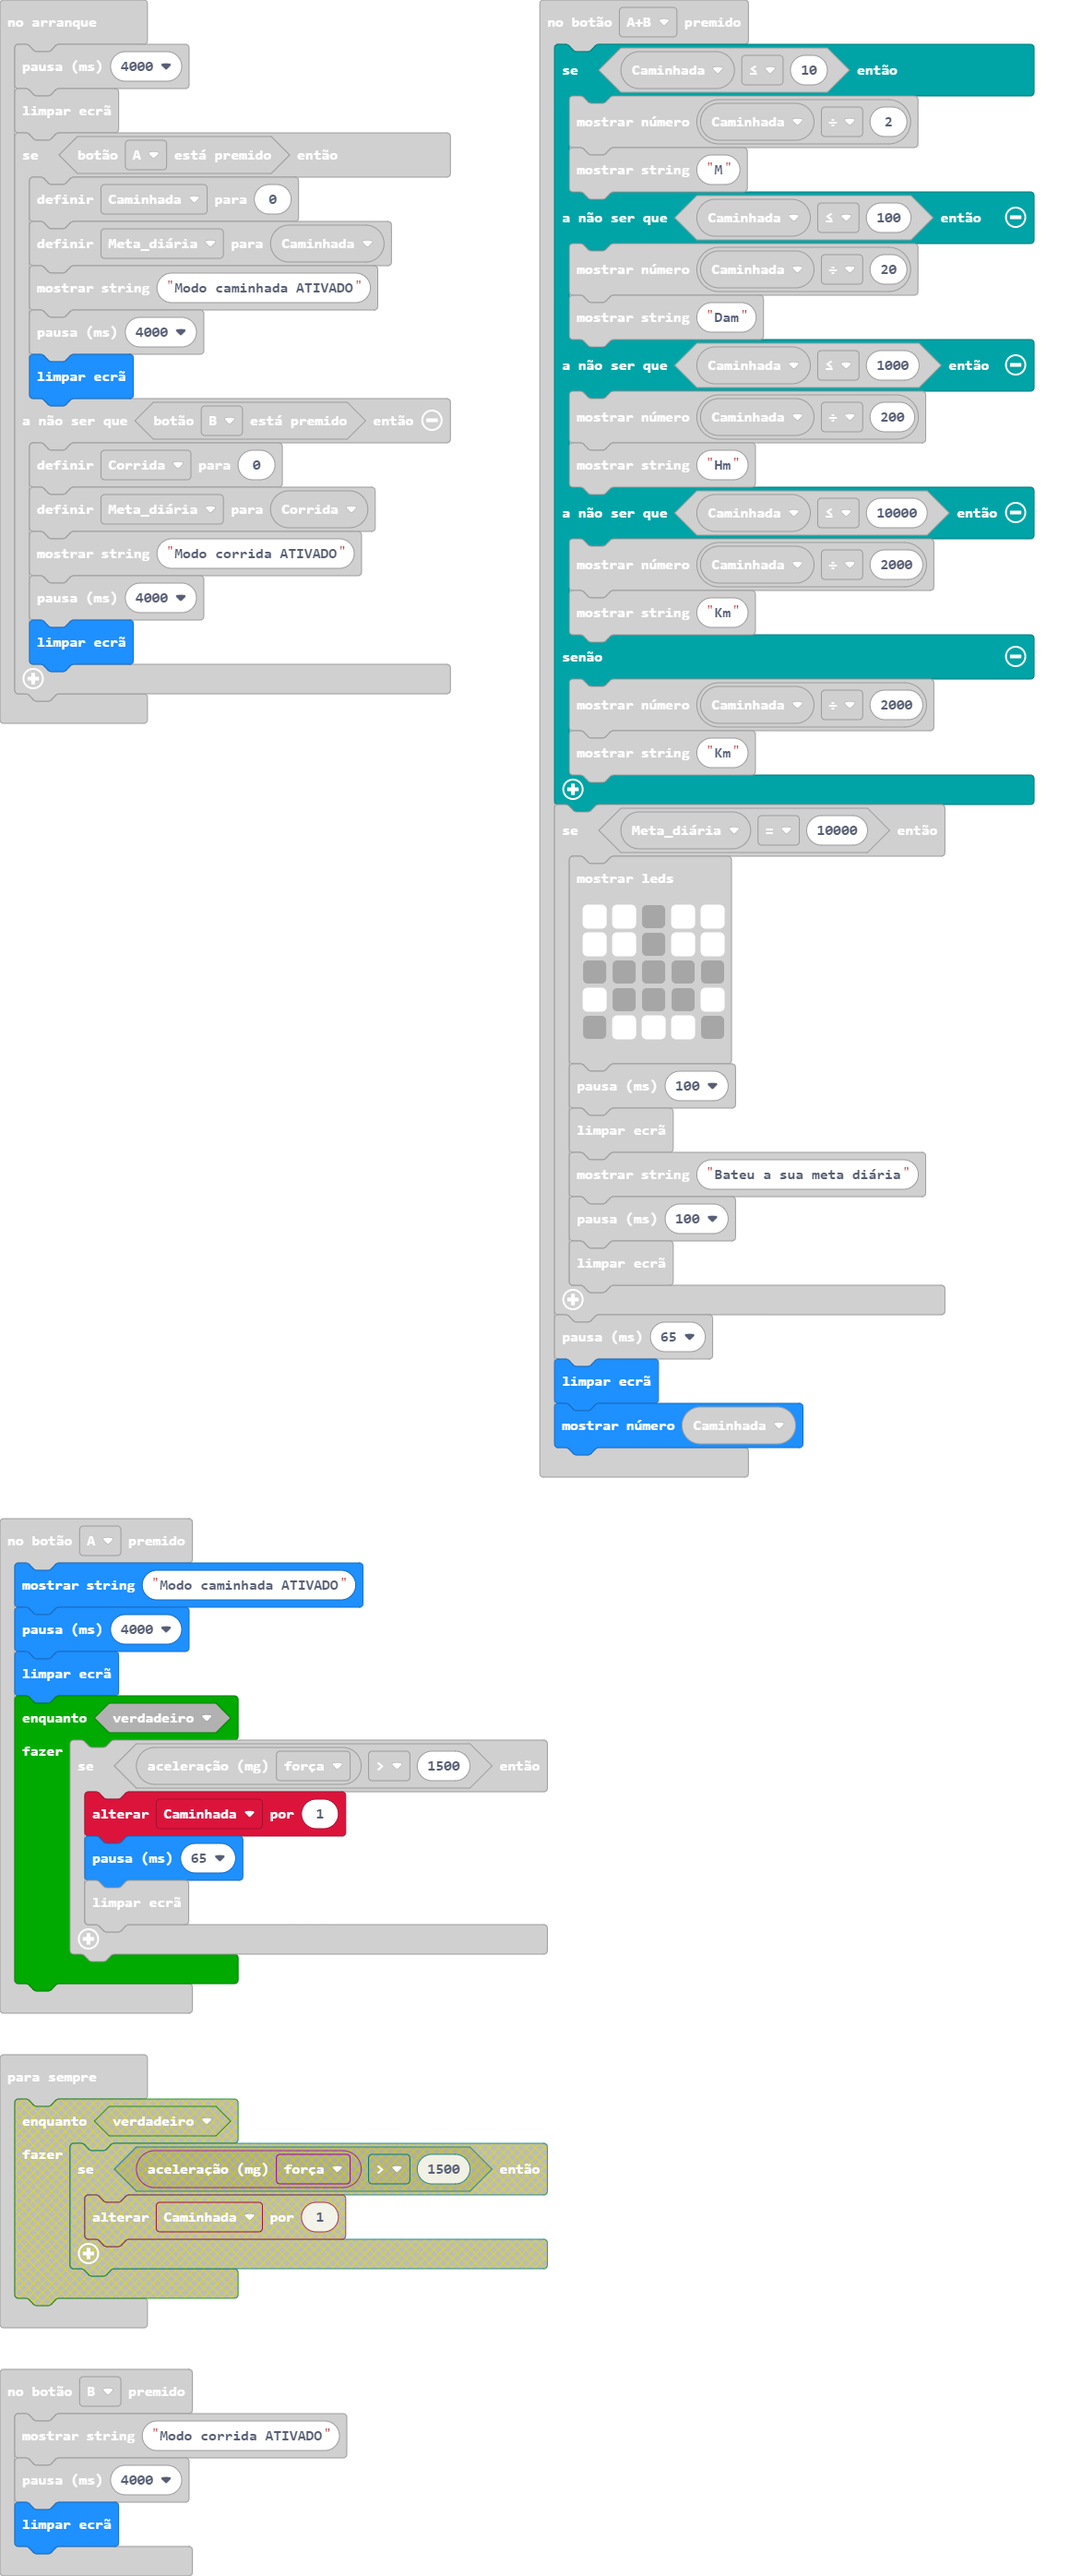
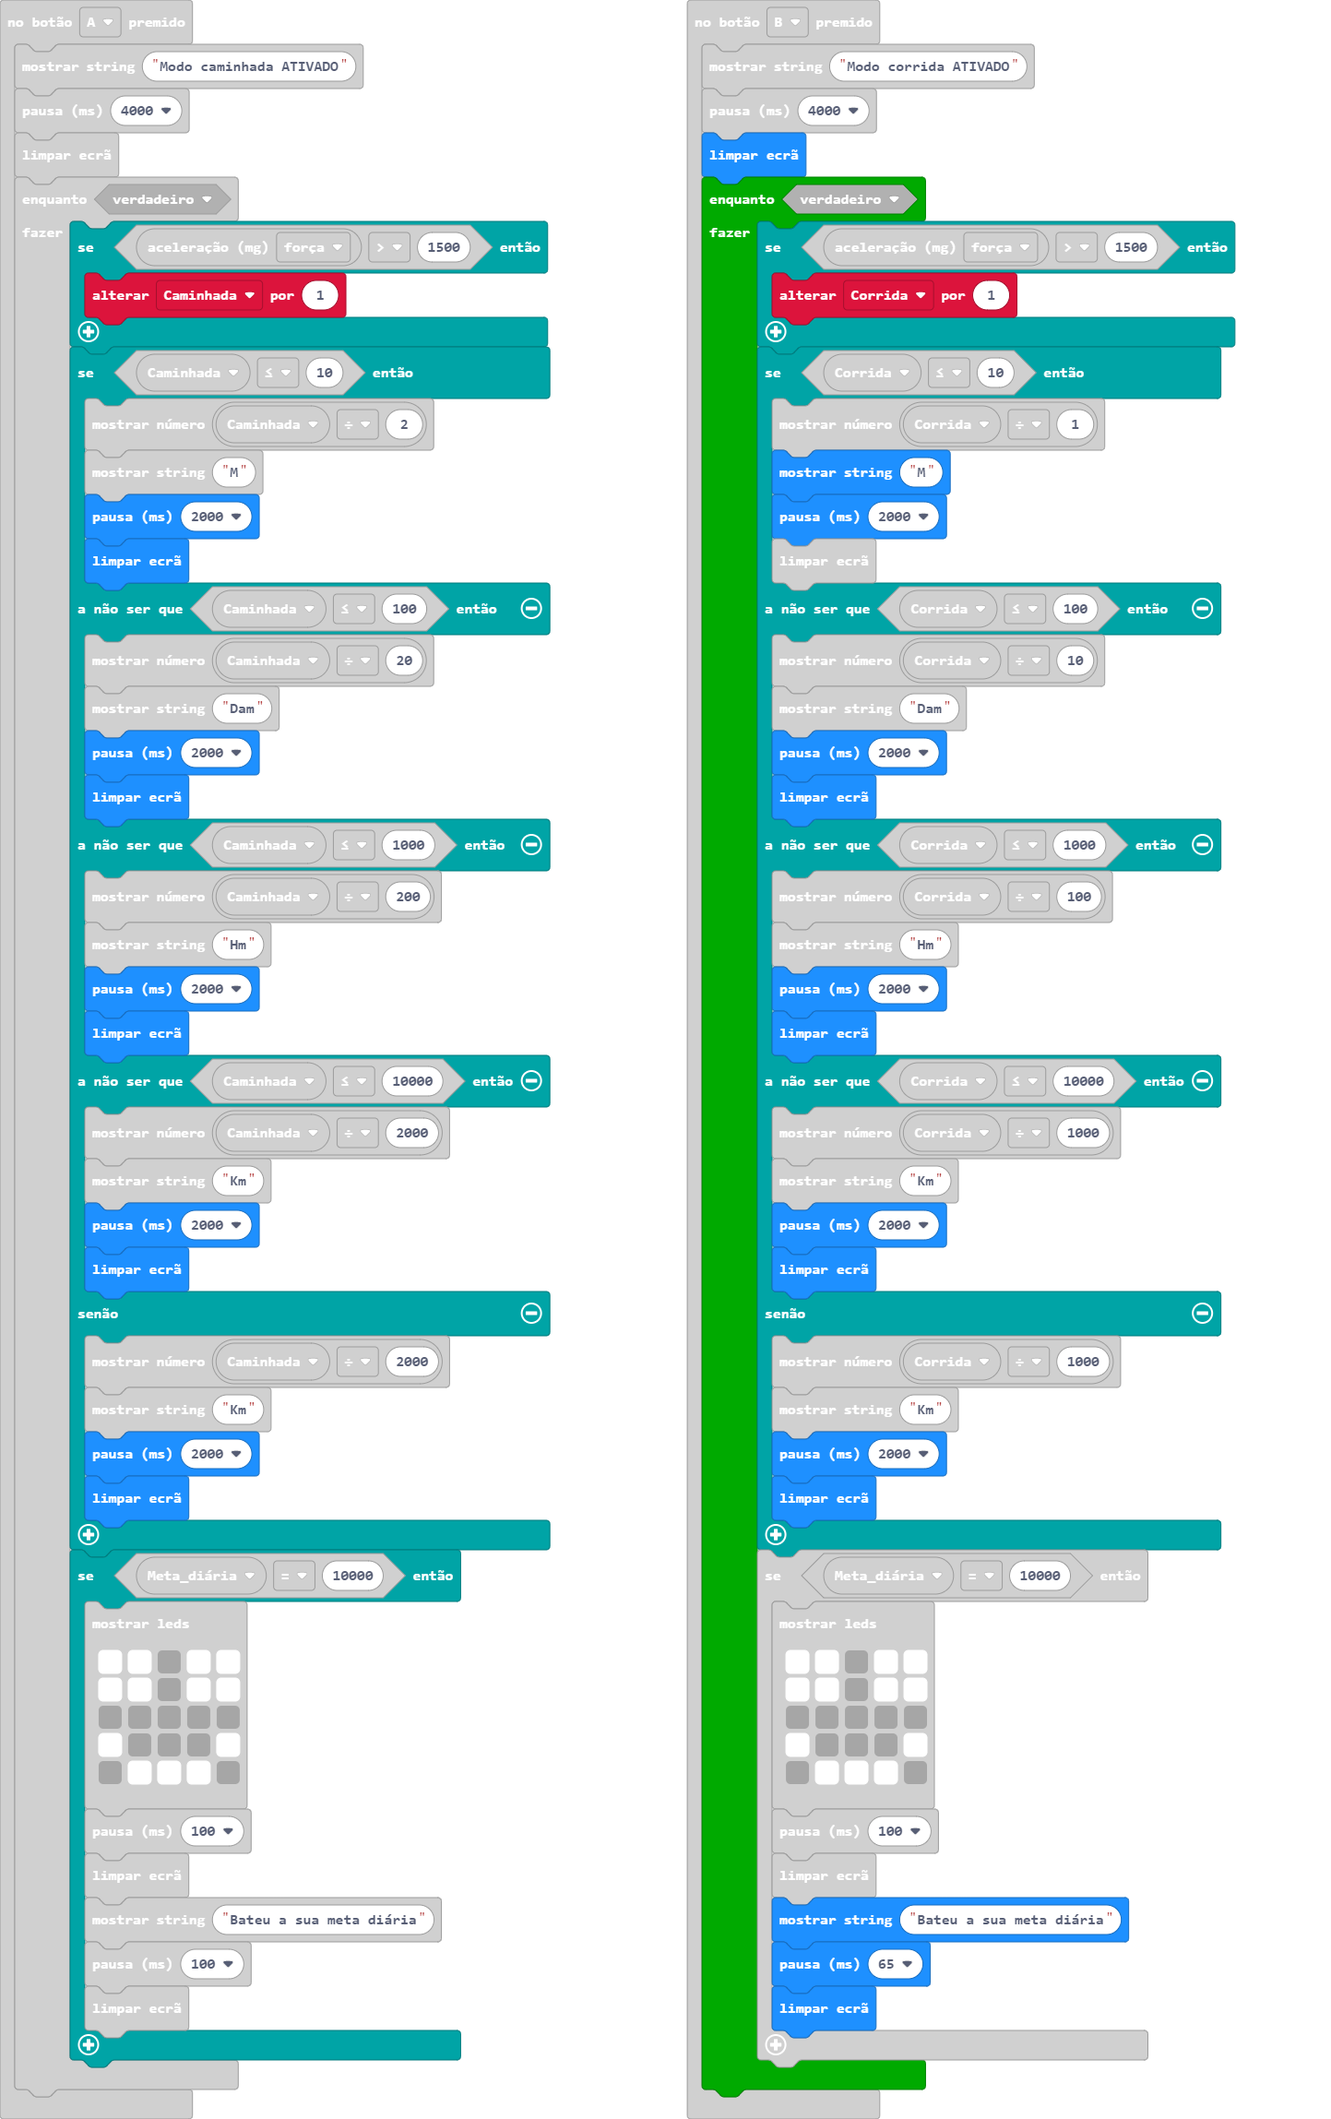
Update main.blocks, main.ts

diff --git a/main.ts b/main.ts
@@ -5,50 +5,101 @@ input.onButtonPressed(Button.A, function () {
     while (true) {
         if (input.acceleration(Dimension.Strength) > 1500) {
             Caminhada += 1
-            basic.pause(65)
+        }
+        if (Caminhada <= 10) {
+            basic.showNumber(Caminhada / 2)
+            basic.showString("M")
+            basic.pause(2000)
+            basic.clearScreen()
+        } else if (Caminhada <= 100) {
+            basic.showNumber(Caminhada / 20)
+            basic.showString("Dam")
+            basic.pause(2000)
+            basic.clearScreen()
+        } else if (Caminhada <= 1000) {
+            basic.showNumber(Caminhada / 200)
+            basic.showString("Hm")
+            basic.pause(2000)
+            basic.clearScreen()
+        } else if (Caminhada <= 10000) {
+            basic.showNumber(Caminhada / 2000)
+            basic.showString("Km")
+            basic.pause(2000)
+            basic.clearScreen()
+        } else {
+            basic.showNumber(Caminhada / 2000)
+            basic.showString("Km")
+            basic.pause(2000)
+            basic.clearScreen()
+        }
+        if (Meta_diária == 10000) {
+            basic.showLeds(`
+                # # . # #
+                # # . # #
+                . . . . .
+                # . . . #
+                . # # # .
+                `)
+            basic.pause(100)
+            basic.clearScreen()
+            basic.showString("Bateu a sua meta diária")
+            basic.pause(100)
             basic.clearScreen()
         }
     }
 })
 input.onButtonPressed(Button.AB, function () {
-    if (Caminhada <= 10) {
-        basic.showNumber(Caminhada / 2)
-        basic.showString("M")
-    } else if (Caminhada <= 100) {
-        basic.showNumber(Caminhada / 20)
-        basic.showString("Dam")
-    } else if (Caminhada <= 1000) {
-        basic.showNumber(Caminhada / 200)
-        basic.showString("Hm")
-    } else if (Caminhada <= 10000) {
-        basic.showNumber(Caminhada / 2000)
-        basic.showString("Km")
-    } else {
-        basic.showNumber(Caminhada / 2000)
-        basic.showString("Km")
-    }
-    if (Meta_diária == 10000) {
-        basic.showLeds(`
-            # # . # #
-            # # . # #
-            . . . . .
-            # . . . #
-            . # # # .
-            `)
-        basic.pause(100)
-        basic.clearScreen()
-        basic.showString("Bateu a sua meta diária")
-        basic.pause(100)
-        basic.clearScreen()
-    }
-    basic.pause(65)
-    basic.clearScreen()
-    basic.showNumber(Caminhada)
+	
 })
 input.onButtonPressed(Button.B, function () {
     basic.showString("Modo corrida ATIVADO")
     basic.pause(4000)
     basic.clearScreen()
+    while (true) {
+        if (input.acceleration(Dimension.Strength) > 1500) {
+            Corrida += 1
+        }
+        if (Corrida <= 10) {
+            basic.showNumber(Corrida / 1)
+            basic.showString("M")
+            basic.pause(2000)
+            basic.clearScreen()
+        } else if (Corrida <= 100) {
+            basic.showNumber(Corrida / 10)
+            basic.showString("Dam")
+            basic.pause(2000)
+            basic.clearScreen()
+        } else if (Corrida <= 1000) {
+            basic.showNumber(Corrida / 100)
+            basic.showString("Hm")
+            basic.pause(2000)
+            basic.clearScreen()
+        } else if (Corrida <= 10000) {
+            basic.showNumber(Corrida / 1000)
+            basic.showString("Km")
+            basic.pause(2000)
+            basic.clearScreen()
+        } else {
+            basic.showNumber(Corrida / 1000)
+            basic.showString("Km")
+            basic.pause(2000)
+            basic.clearScreen()
+        }
+        if (Meta_diária == 10000) {
+            basic.showLeds(`
+                # # . # #
+                # # . # #
+                . . . . .
+                # . . . #
+                . # # # .
+                `)
+            basic.pause(100)
+            basic.clearScreen()
+            basic.showString("Bateu a sua meta diária")
+            basic.pause(65)
+            basic.clearScreen()
+        }
+    }
 })
 let Corrida = 0
 let Meta_diária = 0
@@ -68,6 +119,9 @@ if (input.buttonIsPressed(Button.A)) {
     basic.pause(4000)
     basic.clearScreen()
 }
+basic.forever(function () {
+	
+})
 basic.forever(function () {
 	
 })
